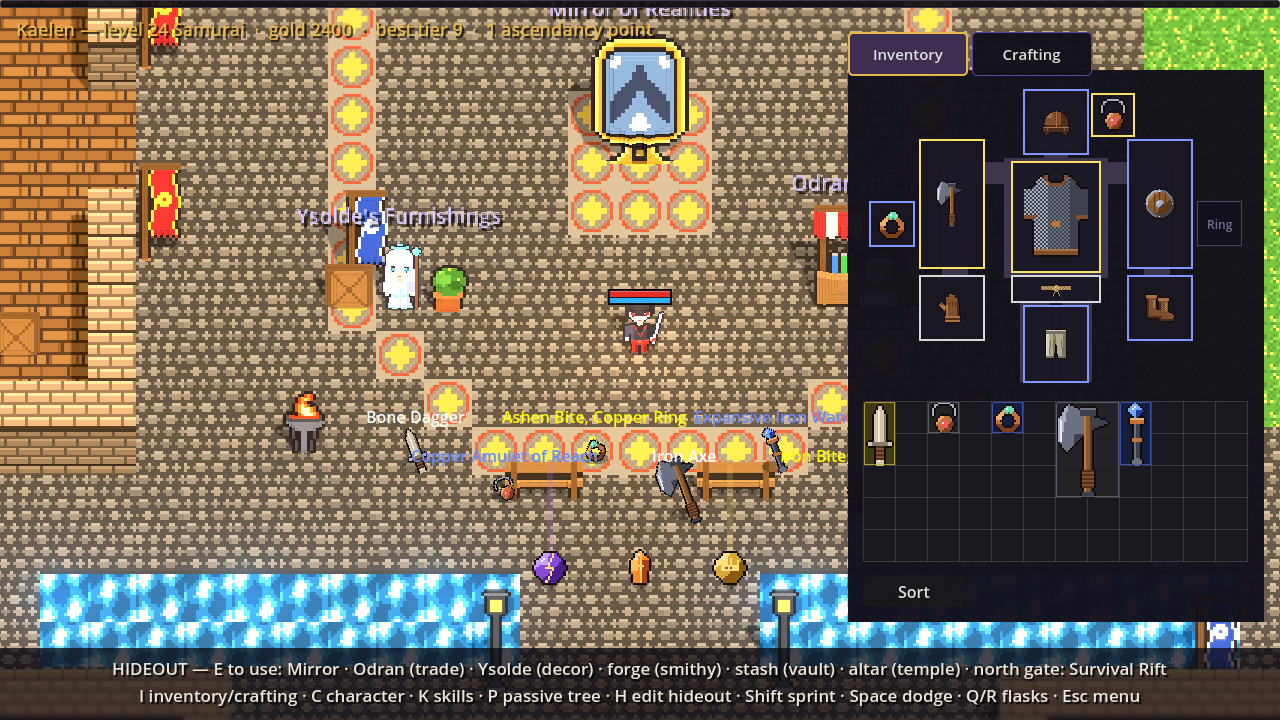
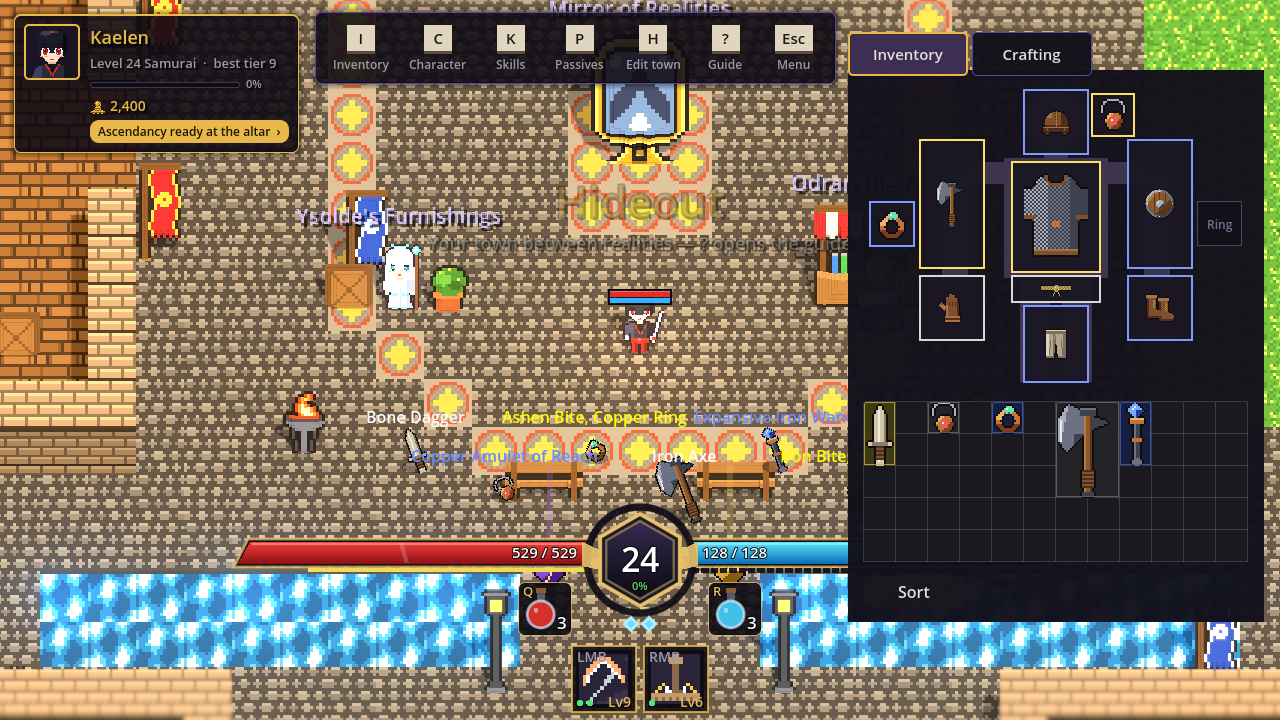
HUD makes room for the open inventory instead of painting over it
The inventory draws above every HUD (layer 12). An open inventory is a
HudLayout blocker: the hideout menu bar and the target frame slide out from
under it, the town directory and reality info fade, the vitals cluster stays
under it. HUD-AVOIDS-INVENTORY test.

Claude-Session: https://claude.ai/code/session_017oVxMuiyGo7J29bWNRcSYW

diff --git a/scripts/UI/HudLayout.cs b/scripts/UI/HudLayout.cs
@@ -13,6 +13,19 @@ namespace ArpgGame.UI;
 /// shared between screens, so moving the life cluster or the boss bar in a
 /// reality moves it in the Survival Rift too.
 /// </summary>
+/// <summary>What a HUD panel does when a side panel (the inventory) opens over it.</summary>
+public enum HudAvoid
+{
+    /// <summary>Stay put; the side panel draws over it (the life/mana cluster).</summary>
+    Stay,
+
+    /// <summary>Slide sideways out from under the panel, if it fits.</summary>
+    Slide,
+
+    /// <summary>Fade out while the panel covers it.</summary>
+    Hide,
+}
+
 public static class HudLayout
 {
     public const string Group = "hud_movable";
@@ -54,11 +67,34 @@ public static class HudLayout
     /// called with true while the editor is open, so panels that are usually
     /// hidden (the boss bar, notifications) can show a placeholder.
     /// </summary>
-    public static HudMovable Register(Control target, string id, string label, Action<bool>? preview = null)
+    public static HudMovable Register(Control target, string id, string label, Action<bool>? preview = null, HudAvoid avoid = HudAvoid.Stay)
     {
-        var movable = new HudMovable { Id = id, Label = label, Target = target, Preview = preview, Name = $"HudMovable_{id}" };
+        var movable = new HudMovable { Id = id, Label = label, Target = target, Preview = preview, Avoid = avoid, Name = $"HudMovable_{id}" };
         target.AddChild(movable);
         return movable;
+    }
+
+    private static readonly List<Func<Rect2?>> Blockers = new();
+
+    /// <summary>A side panel (the inventory) that HUD panels make room for while it
+    /// is open: <paramref name="rect"/> returns its screen rect, or null when closed.</summary>
+    public static void AddBlocker(Func<Rect2?> rect) => Blockers.Add(rect);
+
+    public static void RemoveBlocker(Func<Rect2?> rect) => Blockers.Remove(rect);
+
+    /// <summary>Screen rects of the side panels open right now.</summary>
+    public static List<Rect2> OpenBlockers()
+    {
+        var list = new List<Rect2>();
+        foreach (Func<Rect2?> b in Blockers)
+        {
+            if (b() is { } r)
+            {
+                list.Add(r);
+            }
+        }
+
+        return list;
     }
 
     public static Vector2 OffsetOf(string id) => Offsets.TryGetValue(id, out Vector2 o) ? o : Vector2.Zero;
@@ -164,6 +200,11 @@ public partial class HudMovable : Node
     public string Label = "";
     public Control Target = null!;
     public Action<bool>? Preview;
+    public HudAvoid Avoid = HudAvoid.Stay;
+
+    /// <summary>The temporary sideways shift while a side panel is open (Slide).</summary>
+    public Vector2 AvoidShift { get; private set; }
+    private float _fade = 1f;
 
     public Vector2 Default { get; private set; }
     public bool IsSettled { get; private set; }
@@ -174,6 +215,57 @@ public partial class HudMovable : Node
         ProcessMode = ProcessModeEnum.Always;
         // Anchored controls only know their position once their parent has a size.
         CallDeferred(nameof(Settle));
+    }
+
+    /// <summary>Makes room for open side panels: slide out from under them, or fade.</summary>
+    public override void _Process(double delta)
+    {
+        if (!IsSettled || Avoid == HudAvoid.Stay || !IsInstanceValid(Target))
+        {
+            return;
+        }
+
+        Rect2 home = Target.GetGlobalRect();
+        home.Position -= AvoidShift;
+        Vector2 want = Vector2.Zero;
+        bool cover = false;
+        foreach (Rect2 b in HudLayout.OpenBlockers())
+        {
+            if (!home.Intersects(b))
+            {
+                continue;
+            }
+
+            if (Avoid == HudAvoid.Slide)
+            {
+                // Slide left of the panel if it fits there, else right of it.
+                float left = b.Position.X - 8f - home.End.X;
+                float right = b.End.X + 8f - home.Position.X;
+                want.X = home.Position.X + left >= 0f ? left : home.End.X + right <= Target.GetViewportRect().Size.X ? right : 0f;
+                cover |= want.X == 0f;
+            }
+            else
+            {
+                cover = true;
+            }
+        }
+
+        // A quick, constant-speed slide that always lands exactly.
+        Vector2 shift = AvoidShift.MoveToward(want, (float)delta * 2400f);
+
+        if (shift != AvoidShift)
+        {
+            Target.Position += shift - AvoidShift;
+            AvoidShift = shift;
+        }
+
+        float fade = Mathf.MoveToward(_fade, cover ? 0f : 1f, (float)delta * 8f);
+        if (!Mathf.IsEqualApprox(fade, _fade))
+        {
+            _fade = fade;
+            Target.Modulate = Target.Modulate with { A = fade };
+            Target.Visible = fade > 0.02f;
+        }
     }
 
     private void Settle()
@@ -229,6 +321,7 @@ public partial class HudMovable : Node
     /// <summary>Moves the panel by <paramref name="delta"/>, keeping it on screen, and records the offset.</summary>
     public void MoveBy(Vector2 delta, Vector2 screen)
     {
+        ClearAvoid();
         Rect2 rect = Target.GetGlobalRect();
         Vector2 size = rect.Size;
         Vector2 to = rect.Position + delta;
@@ -237,8 +330,20 @@ public partial class HudMovable : Node
         HudLayout.SetOffset(Id, Target.Position - Default);
     }
 
+    /// <summary>Drops any temporary avoid shift (the HUD editor works on real positions).</summary>
+    public void ClearAvoid()
+    {
+        if (AvoidShift != Vector2.Zero && IsInstanceValid(Target))
+        {
+            Target.Position -= AvoidShift;
+        }
+
+        AvoidShift = Vector2.Zero;
+    }
+
     public void ResetPosition()
     {
+        AvoidShift = Vector2.Zero;
         if (IsSettled)
         {
             Target.Position = Default;

diff --git a/scripts/tests/EndgameSmokeTest.cs b/scripts/tests/EndgameSmokeTest.cs
@@ -865,6 +865,31 @@ public partial class EndgameSmokeTest : Node2D
             $"directory: {string.Join(", ", hud.DirectoryEntries)}; prompt '{prompt}' (paused={GetTree().Paused}, panels open={UI.PanelStack.HasOpen}, near={hideout.NearestStation()?.Def.Id}, player at {hideout.Player.GlobalPosition}, mirror {mirror}); walk-to target {target.DistanceTo(hideout.Data.Find("forge")!.Position):0} px from the forge; guide opened={guideOpen}");
         hideout.Player.GetNode<NavigationAgent2D>("NavigationAgent2D").TargetPosition = hideout.Player.GlobalPosition;
 
+        // Opening the inventory never paints HUD over it: it draws above the HUD, the
+        // town directory fades and the menu bar slides out from under it.
+        var inv = hideout.Player.GetNode<UI.InventoryUI>("InventoryUI");
+        var movables = GetTree().GetNodesInGroup(UI.HudLayout.Group).OfType<UI.HudMovable>().Where(m => m.IsAncestorOf(hud) || hud.IsAncestorOf(m)).ToList();
+        UI.HudMovable? town = movables.FirstOrDefault(m => m.Id == "town");
+        UI.HudMovable? menuBar = movables.FirstOrDefault(m => m.Id == "hideout_menu");
+        inv.SetOpen(true);
+        for (int i = 0; i < 40; i++)
+        {
+            await ToSignal(GetTree(), SceneTree.SignalName.ProcessFrame);
+        }
+
+        Rect2 block = UI.HudLayout.OpenBlockers().FirstOrDefault();
+        bool townHidden = town is not null && !town.Target.Visible;
+        bool menuClear = menuBar is not null && !menuBar.Target.GetGlobalRect().Intersects(block);
+        inv.SetOpen(false);
+        for (int i = 0; i < 40; i++)
+        {
+            await ToSignal(GetTree(), SceneTree.SignalName.ProcessFrame);
+        }
+
+        bool restored = town is not null && town.Target.Visible && menuBar is not null && menuBar.AvoidShift == Vector2.Zero;
+        Check("HUD-AVOIDS-INVENTORY", inv.Layer > 10 && townHidden && menuClear && restored,
+            $"inventory layer {inv.Layer}, town directory hidden={townHidden}, menu bar clear of the panel={menuClear}, back in place after closing={restored} (town visible={town?.Target.Visible}, menu shift={menuBar?.AvoidShift}, blockers open={UI.HudLayout.OpenBlockers().Count})");
+
         // Walls block, and click-to-move can path from the plaza into the smithy.
         Vector2 from = HideoutTown.World(HideoutTown.SpawnCell);
         Vector2 to = HideoutTown.World(forgeCell + new Vector2I(1, 2));

diff --git a/scripts/UI/InventoryUI.cs b/scripts/UI/InventoryUI.cs
@@ -1,4 +1,5 @@
 #nullable enable
+using System;
 using Godot;
 
 namespace ArpgGame.UI;
@@ -48,6 +49,12 @@ public partial class InventoryUI : CanvasLayer, IClosablePanel
     {
         _panel = GetNode<Control>("Panel");
         _panel.Visible = false;
+
+        // Above every HUD (realities draw theirs at 10), below modal panels (20)
+        // and the tooltip: the open inventory is never painted over, and HUD
+        // panels in its way slide aside or fade (HudLayout blockers).
+        Layer = 12;
+        HudLayout.AddBlocker(_blockRect);
         _strip = _panel.GetNode<Control>("StripControl");
 
         // Inventory | Crafting tabs over the panel. Crafting swaps the paper doll
@@ -143,6 +150,15 @@ public partial class InventoryUI : CanvasLayer, IClosablePanel
     /// <see cref="Close"/> (Escape, via <see cref="PanelStack.CloseTopmost"/>)
     /// go through this one method.</summary>
     public bool IsOpen => _panel.Visible;
+
+    private Rect2? BlockRect() => _panel.Visible
+        ? new Rect2(_panel.GetGlobalRect().Position + new Vector2(-4f, -42f), new Vector2(424f, 600f))
+        : null;
+
+    private Func<Rect2?>? _block;
+    private Func<Rect2?> _blockRect => _block ??= BlockRect;
+
+    public override void _ExitTree() => HudLayout.RemoveBlocker(_blockRect);
 
     public void SetOpen(bool open)
     {

diff --git a/scripts/UI/HideoutHud.cs b/scripts/UI/HideoutHud.cs
@@ -164,7 +164,7 @@ public partial class HideoutHud : CanvasLayer
         AddChip(row, "H", "Edit town", Hideout.OpenEditor);
         AddChip(row, "?", "Guide", Hideout.OpenGuide);
         AddChip(row, "Esc", "Menu", OpenPauseMenu);
-        HudLayout.Register(bar, "hideout_menu", "Menu bar");
+        HudLayout.Register(bar, "hideout_menu", "Menu bar", avoid: HudAvoid.Slide);
     }
 
     private void AddChip(HBoxContainer row, string key, string label, Action press, Func<int>? badge = null)
@@ -215,7 +215,7 @@ public partial class HideoutHud : CanvasLayer
             _rows.Add(row);
         }
 
-        HudLayout.Register(panel, "town", "Town directory");
+        HudLayout.Register(panel, "town", "Town directory", avoid: HudAvoid.Hide);
     }
 
     // --- vitals and skills (bottom centre, as in realities) ------------------------

diff --git a/scripts/UI/RealityHud.cs b/scripts/UI/RealityHud.cs
@@ -127,8 +127,8 @@ public partial class RealityHud : CanvasLayer
 
         // Movable in the HUD editor (pause menu → Edit HUD).
         HudLayout.Register(_levelLabel, "character", "Character");
-        HudLayout.Register(info, "reality_info", "Reality info & minimap");
-        HudLayout.Register(_target, "boss", "Target / boss life", _target.Preview);
+        HudLayout.Register(info, "reality_info", "Reality info & minimap", avoid: HudAvoid.Hide);
+        HudLayout.Register(_target, "boss", "Target / boss life", _target.Preview, HudAvoid.Slide);
         HudLayout.Register(_bar, "vitals", "Life, mana & flasks");
         HudLayout.Register(_skillRow, "skills", "Skills");
         HudLayout.Register(_toasts, "toasts", "Notifications", on => PreviewToasts(_toasts, on));

diff --git a/scripts/UI/RunHud.cs b/scripts/UI/RunHud.cs
@@ -84,7 +84,7 @@ public partial class RunHud : CanvasLayer
         HudLayout.Register(_levelLabel, "run_level", "Level");
         HudLayout.Register(_timerLabel, "timer", "Timer");
         HudLayout.Register(_killsLabel, "kills", "Kills");
-        HudLayout.Register(_target, "boss", "Target / boss life", _target.Preview);
+        HudLayout.Register(_target, "boss", "Target / boss life", _target.Preview, HudAvoid.Slide);
         HudLayout.Register(bar, "vitals", "Life & flask");
         HudLayout.Register(_skillRow, "skills", "Skills");
 

diff --git a/scripts/tools/RunCapture.cs b/scripts/tools/RunCapture.cs
@@ -352,6 +352,7 @@ public partial class RunCapture : Node
         {
             CharacterData k = profile.Active;
             k.HighestTierCleared = 9;
+            profile.Hideout.GuideSeen = true;
             k.Gold = 2400;
             foreach (Items.CraftingCurrency c in Items.Crafting.All)
             {

diff --git a/docs/devlog/journal.md b/docs/devlog/journal.md
@@ -300,3 +300,7 @@ The owner found the hideout's explanations unintuitive and old-fashioned: a stat
 ## 2026-10-13 — Feedback from inside the game
 
 Esc → Send feedback: a bug / idea / feature-request form that opens the project's GitHub new-issue page with the matching issue form and every field filled in, so the right label is applied and the player just presses Submit. Creating issues straight from the client was ruled out: it would mean shipping a GitHub token anyone could pull out of the build. Labels come from issue forms rather than the URL (URL labels are ignored for non-collaborators), and a small workflow creates the labels. A Discord relay is the likely next step. Screenshot: `feedback-panel.png`.
+
+## 2026-10-13 — The HUD makes room for the inventory
+
+The owner sent a screenshot of the new hideout HUD drawn over the open inventory. The inventory now sits above every HUD layer, and HUD panels in its way either slide aside (menu bar, target frame) or fade (town directory, reality info) until it closes. The first version slid back with a lerp that never quite reached zero: a test that waits for the panels to return caught it, so the slide now moves at a constant speed and lands exactly. Screenshot: `items-inventory.png`.

diff --git a/docs/design/menus.md b/docs/design/menus.md
@@ -286,3 +286,17 @@ planned next step is a relay (most likely a Discord integration: a webhook into 
 forum channel with tags, behind a small relay that holds the secret), which would
 let players send feedback without a GitHub account. The form stays the same; only
 `Feedback`'s sending step changes.
+
+## HUD and side panels **[IMPLEMENTED 2026-10-13]**
+
+The owner caught the hideout HUD painting over the open inventory (town directory,
+menu bar and the mana end of the life/mana cluster all drew on top of it). Two fixes:
+
+- The inventory draws **above every HUD** (layer 12; realities and the Survival Rift
+  draw their HUD at 10, the hideout at 4), still under modal panels and the tooltip.
+- An open inventory is a **blocker** (`HudLayout.AddBlocker`). Each movable HUD panel
+  says what it does when one opens over it (`HudAvoid`): the menu bar and the boss /
+  target frame **slide** sideways out from under it; the town directory and the
+  reality info and minimap **fade** out; the life/mana cluster **stays** and the
+  panel covers its right end, as in Path of Exile. Everything slides back when the
+  inventory closes; the shift is temporary and never saved into the HUD layout.
